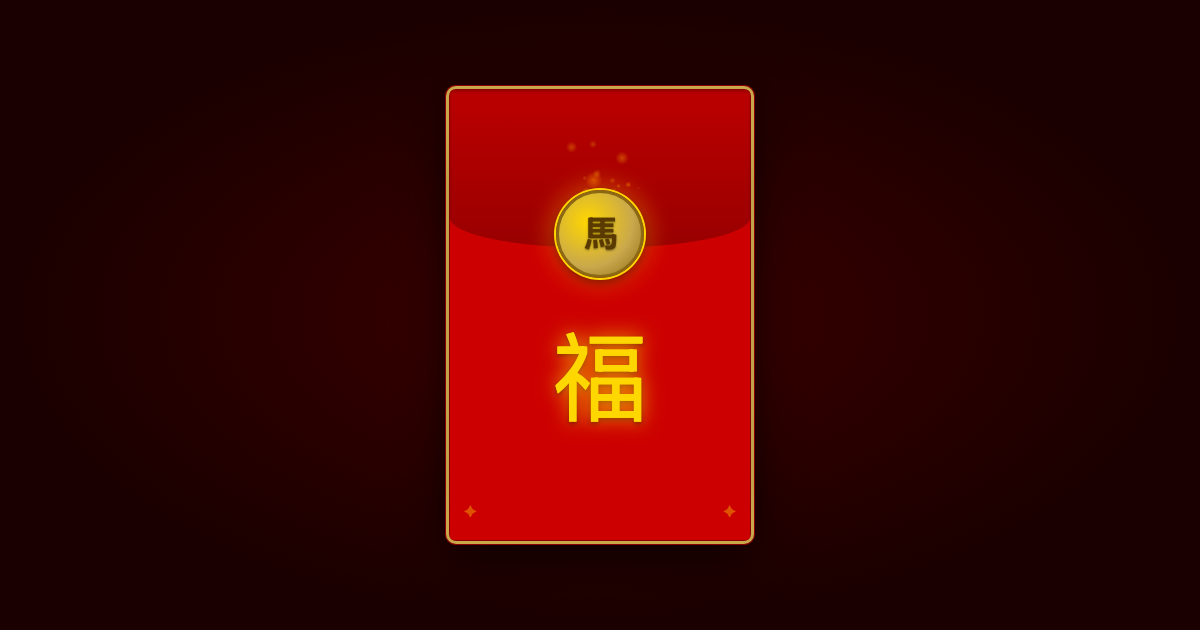
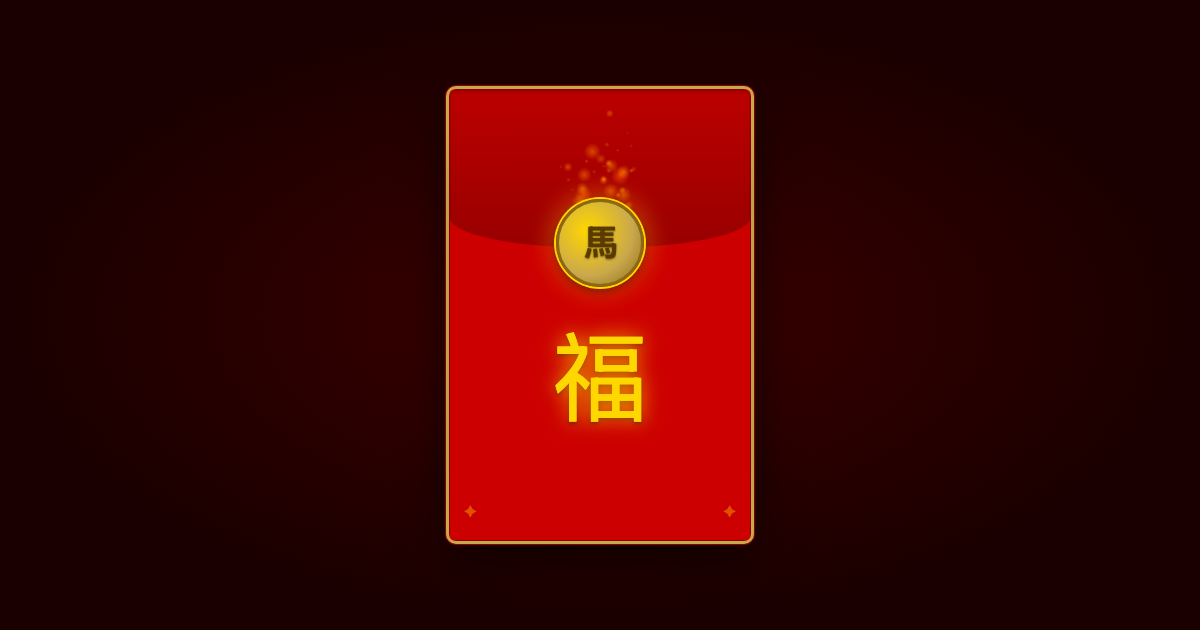
fix: center seal on flap/body seam, decouple fire spawn point
Seal moved to top: 34% (flap ends at 35%, front panel starts at 28%).
Fire spawn now calculated from envelope geometry at fixed 34% mark,
independent of seal DOM position — allows seal/fire to be repositioned
separately in the future.

Changed region(s): [[0.4625, 0.2413, 0.555, 0.4825]]

diff --git a/index.html b/index.html
@@ -147,7 +147,7 @@
       box-shadow:
         0 0 0 2px #FFD700,
         0 4px 12px rgba(0,0,0,0.5);
-      top: 32%;
+      top: 34%;
       left: 50%;
       transform: translate(-50%, -50%);
       z-index: 100;
@@ -342,9 +342,10 @@
     let sealCenter = { x: 0, y: 0 };
 
     function updateSealCenter() {
-      const seal = document.getElementById('seal');
-      const rect = seal.getBoundingClientRect();
-      sealCenter = { x: rect.left + rect.width / 2, y: rect.bottom };
+      const env = document.querySelector('.envelope');
+      const rect = env.getBoundingClientRect();
+      // Spawn fixed at 32% down the envelope — fire stays here even as seal moves
+      sealCenter = { x: rect.left + rect.width / 2, y: rect.top + rect.height * 0.34 };
     }
 
     // Initialize after DOM is ready (called at end of script setup)
